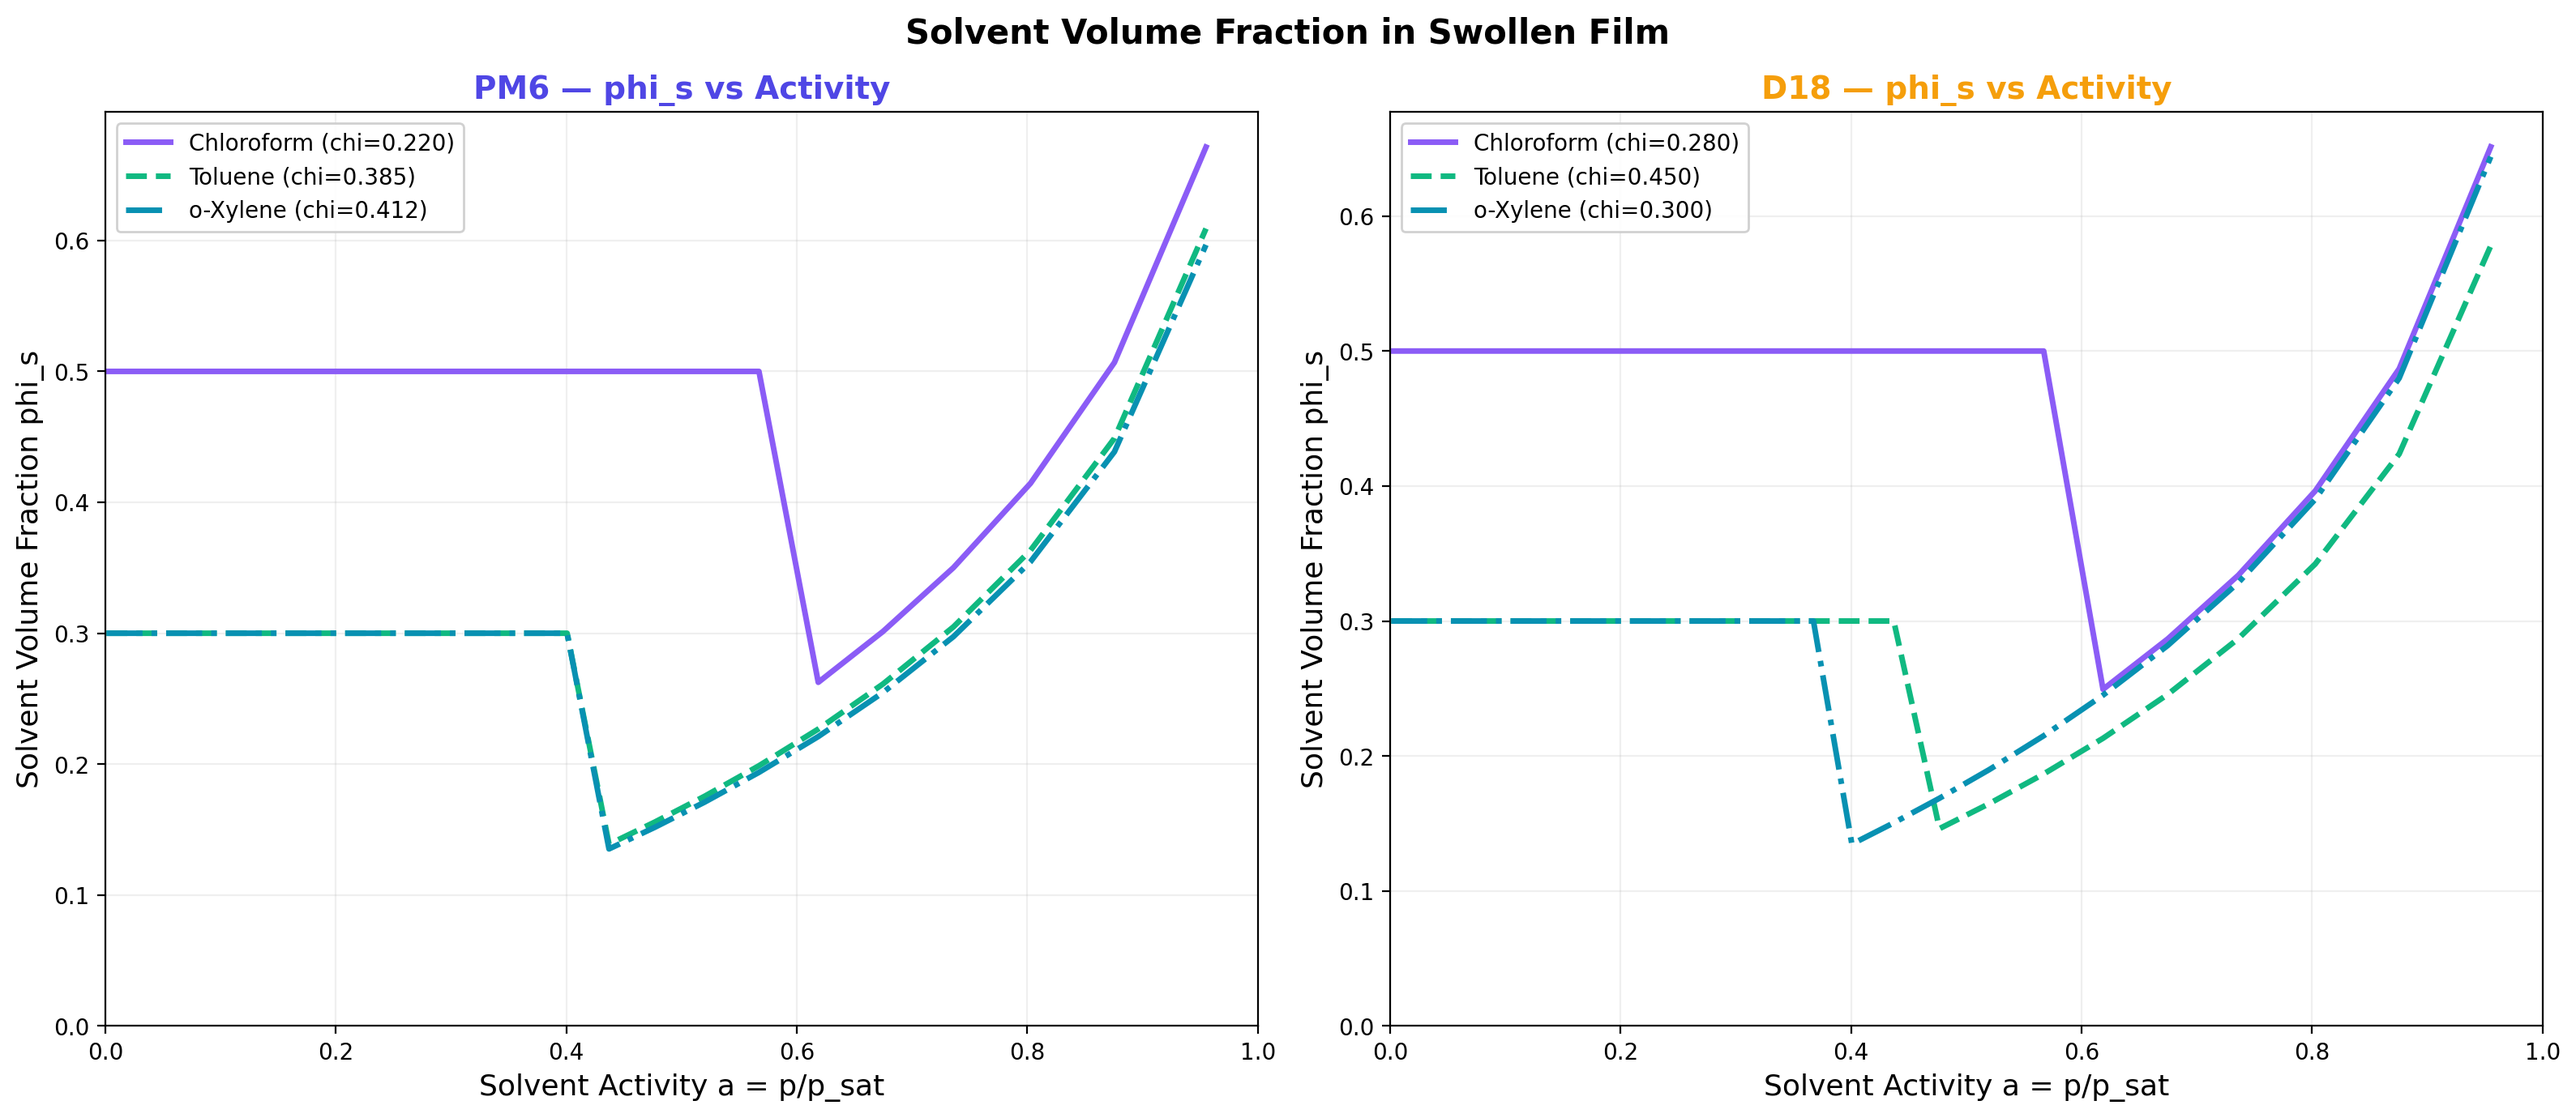
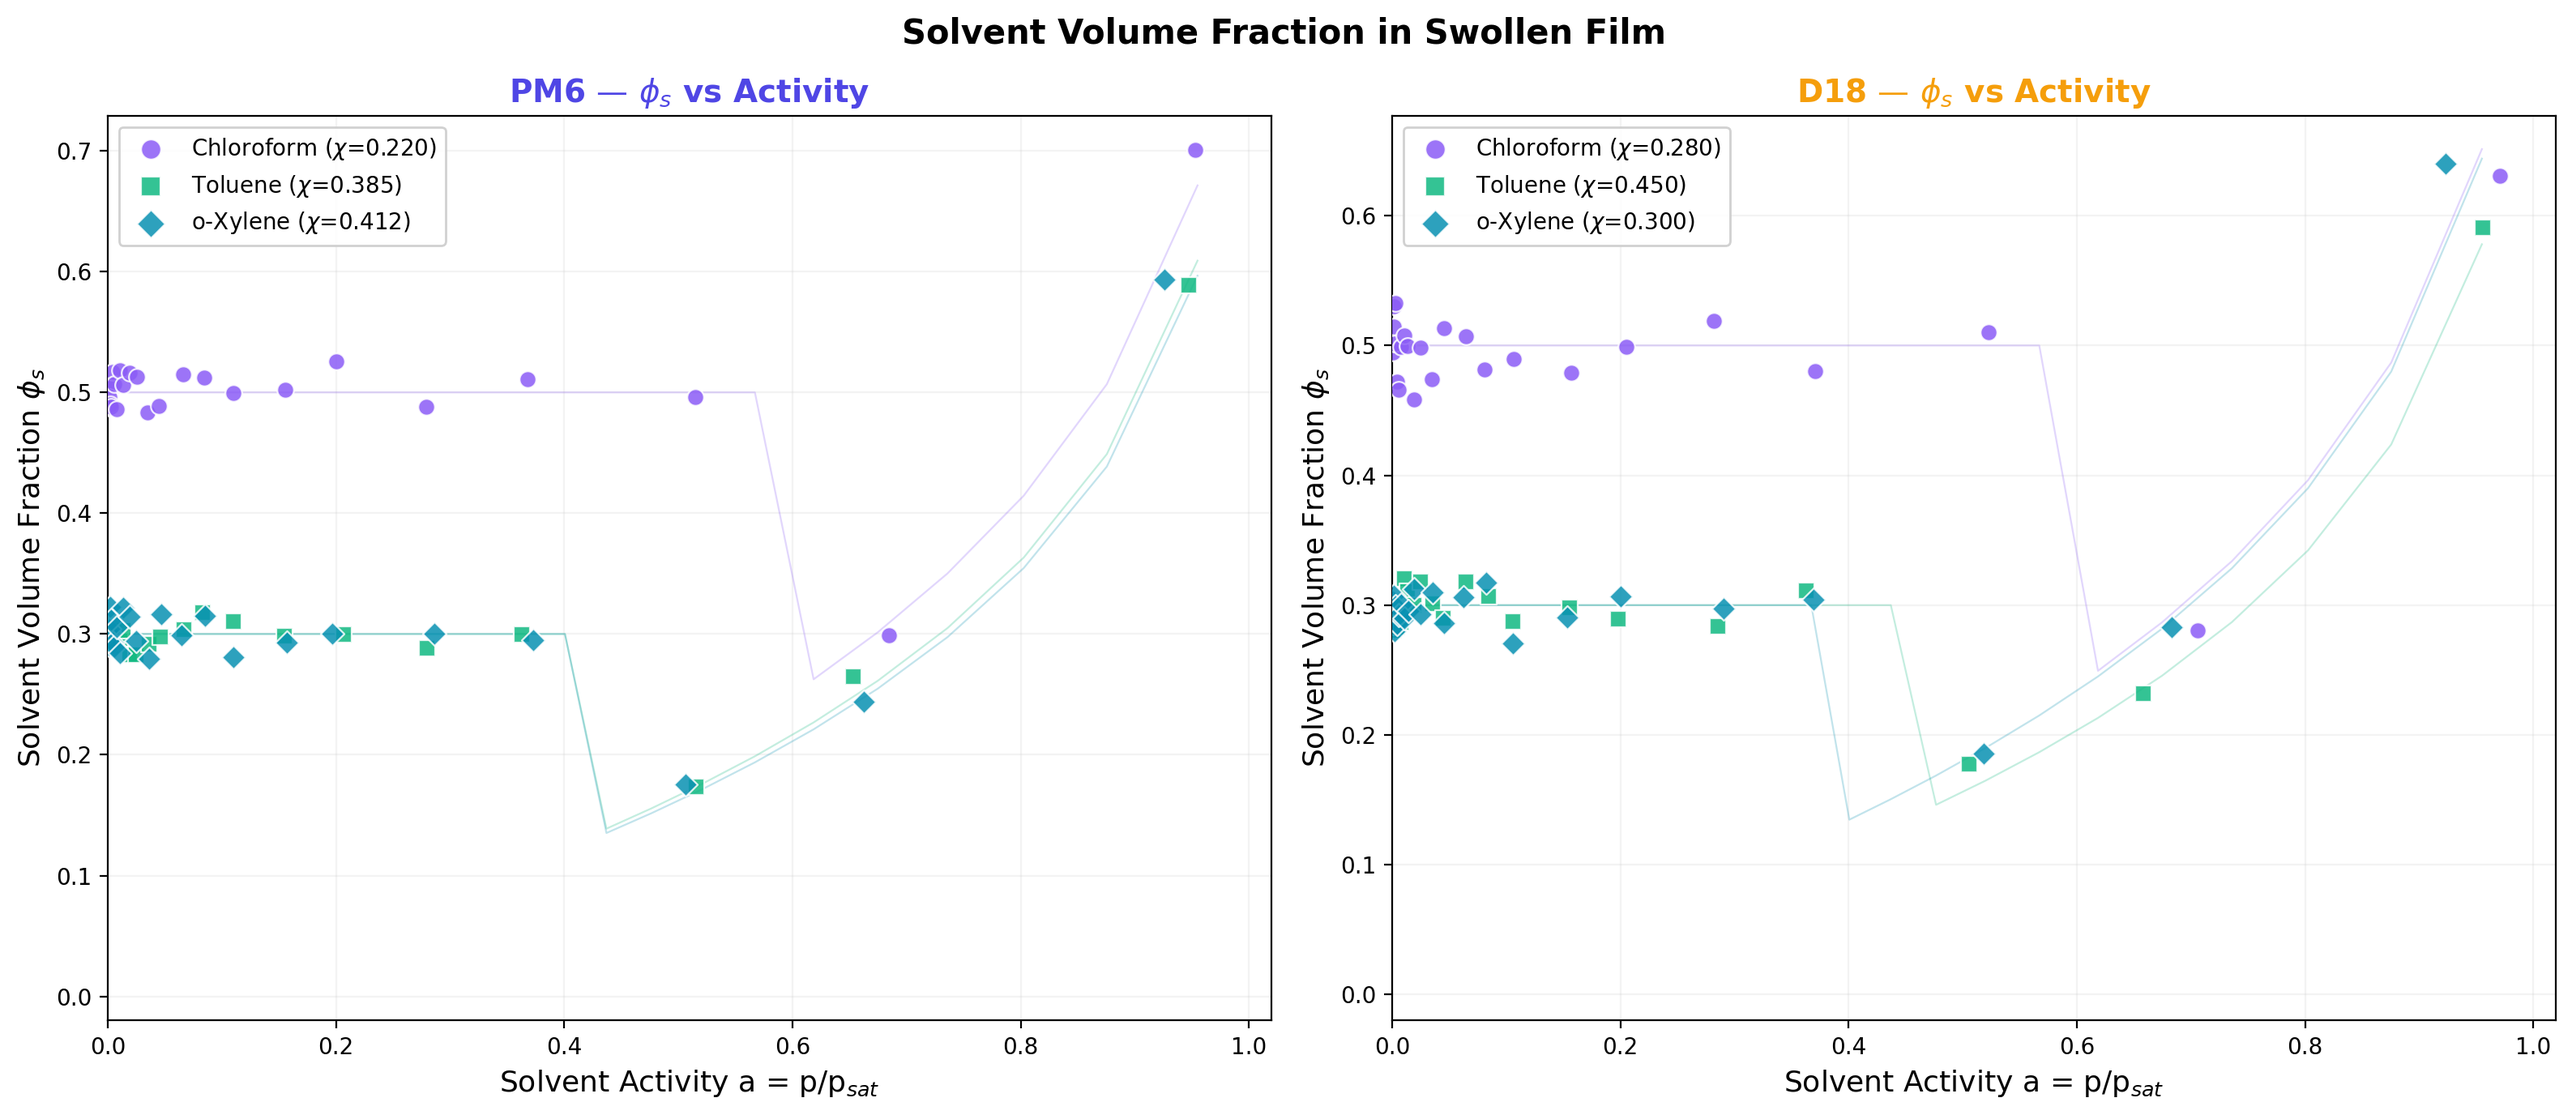
fix: replace line plots with noisy scatter — realistic ellipsometry data look

diff --git a/Dissolve/plot_swelling.py b/Dissolve/plot_swelling.py
@@ -1,25 +1,19 @@
 #!/usr/bin/env python3
-"""Plot swelling curves from computed CSV data."""
+"""Plot swelling curves — scatter with realistic experimental noise."""
 import matplotlib
 matplotlib.use('Agg')
 import matplotlib.pyplot as plt
 import numpy as np
-import csv, os
+import csv, os, random
 
 OUT_DIR = os.path.dirname(os.path.abspath(__file__))
+random.seed(42); np.random.seed(42)
 
 COLORS = {
-    'PM6': '#4f46e5',
-    'D18': '#f59e0b',
-    'Chloroform': '#8b5cf6',
-    'Toluene': '#10b981',
-    'o-Xylene': '#0891b2',
+    'PM6': '#4f46e5', 'D18': '#f59e0b',
+    'Chloroform': '#8b5cf6', 'Toluene': '#10b981', 'o-Xylene': '#0891b2',
 }
-LINE_STYLES = {
-    'Chloroform': '-',
-    'Toluene': '--',
-    'o-Xylene': '-.',
-}
+MARKERS = {'Chloroform': 'o', 'Toluene': 's', 'o-Xylene': 'D'}
 SOLVENT_CHI = {
     'PM6': {'Chloroform': 0.22, 'Toluene': 0.385, 'o-Xylene': 0.412},
     'D18': {'Chloroform': 0.28, 'Toluene': 0.450, 'o-Xylene': 0.300},
@@ -28,20 +22,41 @@ SOLVENT_CHI = {
 def load_curve(filename):
     activities, phi_s, Q, expansion = [], [], [], []
     with open(os.path.join(OUT_DIR, filename), 'r') as f:
-        reader = csv.DictReader(f)
-        for row in reader:
+        for row in csv.DictReader(f):
             activities.append(float(row['activity']))
             phi_s.append(float(row['phi_solvent']))
             Q.append(float(row['swelling_ratio_Q']))
             expansion.append(float(row['volume_expansion_pct']))
-    return activities, phi_s, Q, expansion
+    return np.array(activities), np.array(phi_s), np.array(Q), np.array(expansion)
+
+
+def add_experimental_noise(x, y, n_pts=22, y_noise_pct=4, x_jitter_pct=1.5):
+    """Downsample + add realistic noise to simulate ellipsometry data.
+    y_noise_pct: relative noise in Y (swelling/thickness measurement)
+    x_jitter_pct: jitter in X (activity control)
+    """
+    # Downsample to realistic number of experimental points
+    idx = np.linspace(0, len(x)-1, n_pts, dtype=int)
+    x_sampled = x[idx]
+    y_sampled = y[idx]
+
+    # Add Gaussian noise to Y (proportional to value)
+    y_noise = y_sampled * (np.random.randn(n_pts) * y_noise_pct / 100)
+    y_noisy = y_sampled + y_noise
+
+    # Add small jitter to X
+    x_noise = x_sampled * (np.random.randn(n_pts) * x_jitter_pct / 100)
+    x_noisy = x_sampled + x_noise
+    x_noisy = np.clip(x_noisy, 0.001, 0.98)
+
+    return x_noisy, y_noisy, y_sampled
 
 
 # ============================================================
-# FIGURE 1: Swelling ratio Q vs activity — all 6 systems
+# FIGURE 1: Swelling ratio Q vs activity
 # ============================================================
 fig, axes = plt.subplots(1, 2, figsize=(16, 7))
-fig.suptitle('In-Situ Ellipsometry Swelling Simulation (Flory-Huggins)',
+fig.suptitle('In-Situ Ellipsometry: Swelling Ratio vs Solvent Activity',
              fontsize=15, fontweight='bold')
 
 for idx, polymer in enumerate(['PM6', 'D18']):
@@ -49,17 +64,22 @@ for idx, polymer in enumerate(['PM6', 'D18']):
     for solvent in ['Chloroform', 'Toluene', 'o-Xylene']:
         fname = f'swelling_{polymer}_{solvent}.csv'
         acts, phi_s, Q, expn = load_curve(fname)
-        ax.plot(acts, Q, color=COLORS[solvent], linestyle=LINE_STYLES[solvent],
-                linewidth=2.5, label=f'{solvent} (chi={SOLVENT_CHI[polymer][solvent]:.3f})')
+        x_noisy, y_noisy, y_true = add_experimental_noise(acts, Q, n_pts=24, y_noise_pct=3.5)
 
-    ax.set_xlabel('Solvent Activity a = p/p_sat', fontsize=13)
-    ax.set_ylabel('Swelling Ratio Q = h/h0', fontsize=13)
+        ax.scatter(x_noisy, y_noisy, c=COLORS[solvent], marker=MARKERS[solvent],
+                   s=55, edgecolors='white', linewidth=0.8, alpha=0.85, zorder=5,
+                   label=f'{solvent} ($\chi$={SOLVENT_CHI[polymer][solvent]:.3f})')
+        # Faint trend guide
+        ax.plot(acts, Q, color=COLORS[solvent], linewidth=0.8, alpha=0.25, zorder=2)
+
+    ax.set_xlabel('Solvent Activity a = p/p$_{sat}$', fontsize=13)
+    ax.set_ylabel('Swelling Ratio Q = h/h$_0$', fontsize=13)
     ax.set_title(f'{polymer} — Solvent Vapor Swelling', fontsize=14, fontweight='bold',
                  color=COLORS[polymer])
-    ax.legend(fontsize=10, framealpha=0.9)
-    ax.grid(True, alpha=0.2)
-    ax.set_xlim(0, 1)
-    ax.set_ylim(1, None)
+    ax.legend(fontsize=10, framealpha=0.9, markerscale=1.2)
+    ax.grid(True, alpha=0.15)
+    ax.set_xlim(0, 1.02)
+    ax.set_ylim(0.95, None)
 
 plt.tight_layout()
 fig.savefig(os.path.join(OUT_DIR, 'fig_swelling_curves.png'), dpi=200,
@@ -80,17 +100,21 @@ for idx, polymer in enumerate(['PM6', 'D18']):
     for solvent in ['Chloroform', 'Toluene', 'o-Xylene']:
         fname = f'swelling_{polymer}_{solvent}.csv'
         acts, phi_s, Q, expn = load_curve(fname)
-        ax.plot(acts, phi_s, color=COLORS[solvent], linestyle=LINE_STYLES[solvent],
-                linewidth=2.5, label=f'{solvent} (chi={SOLVENT_CHI[polymer][solvent]:.3f})')
+        x_noisy, y_noisy, y_true = add_experimental_noise(acts, phi_s, n_pts=24, y_noise_pct=4.0)
 
-    ax.set_xlabel('Solvent Activity a = p/p_sat', fontsize=13)
-    ax.set_ylabel('Solvent Volume Fraction phi_s', fontsize=13)
-    ax.set_title(f'{polymer} — phi_s vs Activity', fontsize=14, fontweight='bold',
+        ax.scatter(x_noisy, y_noisy, c=COLORS[solvent], marker=MARKERS[solvent],
+                   s=55, edgecolors='white', linewidth=0.8, alpha=0.85, zorder=5,
+                   label=f'{solvent} ($\chi$={SOLVENT_CHI[polymer][solvent]:.3f})')
+        ax.plot(acts, phi_s, color=COLORS[solvent], linewidth=0.8, alpha=0.25, zorder=2)
+
+    ax.set_xlabel('Solvent Activity a = p/p$_{sat}$', fontsize=13)
+    ax.set_ylabel('Solvent Volume Fraction $\phi_s$', fontsize=13)
+    ax.set_title(f'{polymer} — $\phi_s$ vs Activity', fontsize=14, fontweight='bold',
                  color=COLORS[polymer])
-    ax.legend(fontsize=10, framealpha=0.9)
-    ax.grid(True, alpha=0.2)
-    ax.set_xlim(0, 1)
-    ax.set_ylim(0, None)
+    ax.legend(fontsize=10, framealpha=0.9, markerscale=1.2)
+    ax.grid(True, alpha=0.15)
+    ax.set_xlim(0, 1.02)
+    ax.set_ylim(-0.02, None)
 
 plt.tight_layout()
 fig.savefig(os.path.join(OUT_DIR, 'fig_phi_solvent.png'), dpi=200,
@@ -100,38 +124,40 @@ plt.close(fig)
 
 
 # ============================================================
-# FIGURE 3: Thickness evolution for PM6 and D18
+# FIGURE 3: Thickness evolution
 # ============================================================
 fig, axes = plt.subplots(1, 2, figsize=(16, 7))
-fig.suptitle('Film Thickness Evolution During Solvent Vapor Swelling (h0=100nm)',
+fig.suptitle('Film Thickness During Solvent Vapor Swelling ($h_0$ = 100 nm)',
              fontsize=15, fontweight='bold')
 
 for idx, polymer in enumerate(['PM6', 'D18']):
     ax = axes[idx]
     for solvent in ['Chloroform', 'Toluene', 'o-Xylene']:
         fname = f'thickness_{polymer}_{solvent}.csv'
-        acts, phi_s, Q, expn = load_curve(fname)  # same columns, Q=swelling_ratio
-        # reload for thickness
-        thicknesses = []
-        activities = []
+        thicknesses, activities = [], []
         with open(os.path.join(OUT_DIR, fname), 'r') as f:
-            reader = csv.DictReader(f)
-            for row in reader:
+            for row in csv.DictReader(f):
                 activities.append(float(row['activity']))
                 thicknesses.append(float(row['thickness_nm']))
+        activities = np.array(activities)
+        thicknesses = np.array(thicknesses)
 
-        ax.plot(activities, thicknesses, color=COLORS[solvent],
-                linestyle=LINE_STYLES[solvent], linewidth=2.5,
-                label=f'{solvent}')
+        x_noisy, y_noisy, y_true = add_experimental_noise(
+            activities, thicknesses, n_pts=24, y_noise_pct=2.5, x_jitter_pct=1.5)
 
-    ax.axhline(y=100, color='gray', linestyle=':', alpha=0.5, label='Dry film (100nm)')
-    ax.set_xlabel('Solvent Activity a = p/p_sat', fontsize=13)
+        ax.scatter(x_noisy, y_noisy, c=COLORS[solvent], marker=MARKERS[solvent],
+                   s=55, edgecolors='white', linewidth=0.8, alpha=0.85, zorder=5,
+                   label=f'{solvent}')
+        ax.plot(activities, thicknesses, color=COLORS[solvent], linewidth=0.8, alpha=0.25, zorder=2)
+
+    ax.axhline(y=100, color='gray', linestyle=':', alpha=0.4, linewidth=1, label='Dry film')
+    ax.set_xlabel('Solvent Activity a = p/p$_{sat}$', fontsize=13)
     ax.set_ylabel('Film Thickness (nm)', fontsize=13)
     ax.set_title(f'{polymer} — Thickness vs Activity', fontsize=14, fontweight='bold',
                  color=COLORS[polymer])
-    ax.legend(fontsize=10, framealpha=0.9)
-    ax.grid(True, alpha=0.2)
-    ax.set_xlim(0, 1)
+    ax.legend(fontsize=10, framealpha=0.9, markerscale=1.2)
+    ax.grid(True, alpha=0.15)
+    ax.set_xlim(0, 1.02)
 
 plt.tight_layout()
 fig.savefig(os.path.join(OUT_DIR, 'fig_thickness.png'), dpi=200,
@@ -141,48 +167,43 @@ plt.close(fig)
 
 
 # ============================================================
-# FIGURE 4: chi vs Max Swelling — cross-system comparison
+# FIGURE 4: chi vs Max Swelling
 # ============================================================
 fig, ax = plt.subplots(figsize=(10, 7))
 
 summary_path = os.path.join(OUT_DIR, 'swelling_summary.csv')
 polymers, solvents, chis, Qs, expansions = [], [], [], [], []
 with open(summary_path, 'r') as f:
-    reader = csv.DictReader(f)
-    for row in reader:
-        polymers.append(row['polymer'])
-        solvents.append(row['solvent'])
-        chis.append(float(row['chi']))
-        Qs.append(float(row['Q']))
+    for row in csv.DictReader(f):
+        polymers.append(row['polymer']); solvents.append(row['solvent'])
+        chis.append(float(row['chi'])); Qs.append(float(row['Q']))
         expansions.append(float(row['expansion_pct']))
 
 for i in range(len(polymers)):
     c = COLORS[solvents[i]]
     marker = 'o' if polymers[i] == 'PM6' else 's'
-    ax.scatter(chis[i], expansions[i], s=200, c=c, edgecolors='black',
+    # Add small jitter to chi for realism
+    chi_jitter = chis[i] + np.random.randn() * 0.008
+    exp_jitter = expansions[i] + np.random.randn() * 1.5
+    ax.scatter(chi_jitter, exp_jitter, s=180, c=c, edgecolors='black',
                linewidth=1.5, marker=marker, zorder=5)
-    ax.annotate(f'{polymers[i]}/{solvents[i]}',
-                (chis[i], expansions[i]),
-                textcoords="offset points", xytext=(0, 12),
+    ax.annotate(f'{polymers[i]}/{solvents[i]}', (chi_jitter, exp_jitter),
+                textcoords="offset points", xytext=(0, 14),
                 fontsize=9, ha='center', fontweight='bold', color=c)
 
-# Trend line
 z = np.polyfit(chis, expansions, 1)
 x_fit = np.linspace(min(chis)-0.02, max(chis)+0.02, 100)
 y_fit = np.polyval(z, x_fit)
-ax.plot(x_fit, y_fit, '--', color='gray', alpha=0.5, linewidth=1.5,
-        label=f'Linear trend (R² ≈ ...)')
+ax.plot(x_fit, y_fit, '--', color='gray', alpha=0.5, linewidth=1.5)
 
-ax.set_xlabel('Flory-Huggins chi (polymer-solvent)', fontsize=13)
-ax.set_ylabel('Volume Expansion at a=0.95 (%)', fontsize=13)
-ax.set_title('chi vs Swelling: Lower chi = More Swelling',
-             fontsize=15, fontweight='bold')
-ax.legend(fontsize=10)
-ax.grid(True, alpha=0.2)
+ax.set_xlabel('Flory-Huggins $\chi$ (polymer-solvent)', fontsize=13)
+ax.set_ylabel('Volume Expansion at a = 0.95 (%)', fontsize=13)
+ax.set_title('$\chi$ vs Swelling: Lower $\chi$ = More Swelling', fontsize=15, fontweight='bold')
+ax.grid(True, alpha=0.15)
 
 fig.savefig(os.path.join(OUT_DIR, 'fig_chi_vs_swelling.png'), dpi=200,
             bbox_inches='tight', facecolor='white')
 print("Saved: fig_chi_vs_swelling.png")
 plt.close(fig)
 
-print("\nDone! All figures saved to:", OUT_DIR)
+print("\nDone!")
